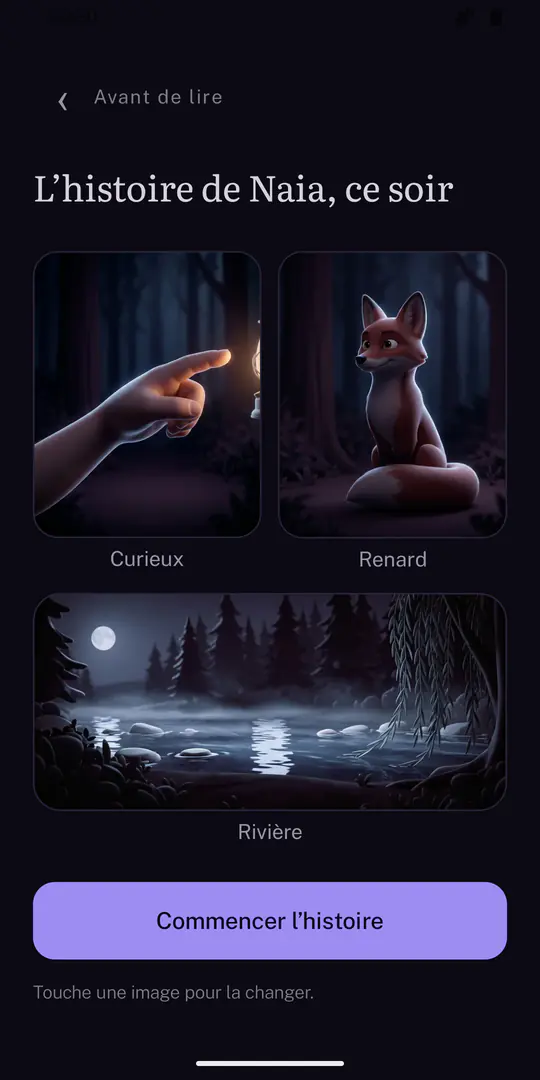
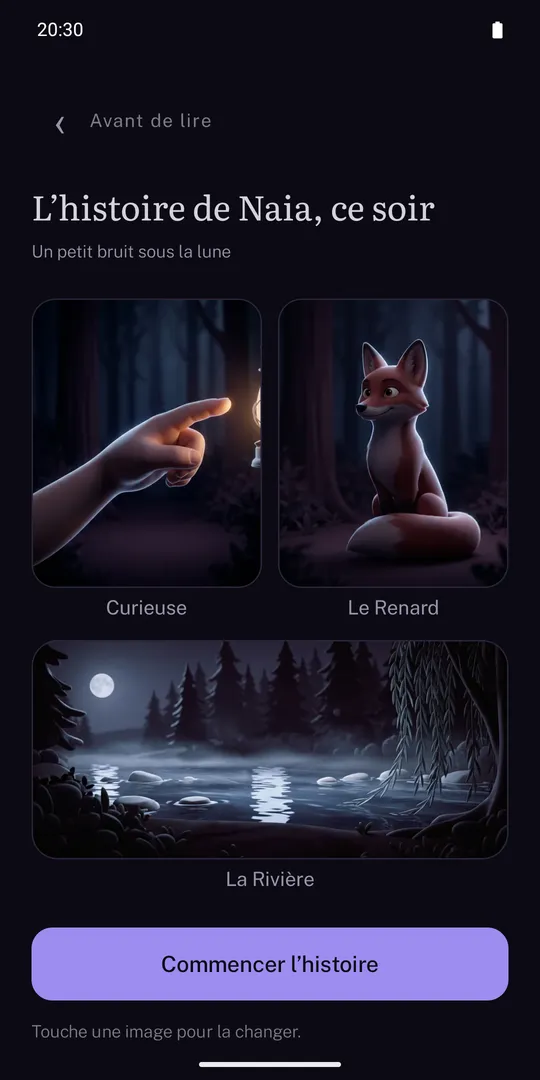
luciole : achats par Google Play, trois univers, lecture en rouleau, captures de la 0.14

diff --git a/luciole/index.html b/luciole/index.html
@@ -102,11 +102,11 @@
           </li>
           <li>
             <h3>Pensée pour le noir</h3>
-            <p>Écran sombre, texte crème, grande police réglable en un geste. Chaque page est un souffle : vous la lisez, vous tournez. Les indications qui vous sont destinées sont en italique et ne se lisent pas à voix haute.</p>
+            <p>Écran sombre, texte crème, grande police réglable en un geste. L’histoire se lit d’un seul défilement, sans page à tourner, et chaque question arrive dans une carte au moment de la poser. Les indications qui vous sont destinées sont en italique et ne se lisent pas à voix haute.</p>
           </li>
           <li>
-            <h3>« La nuit qui appelle »</h3>
-            <p>La forêt n’arrive pas à s’endormir : au fond, quelqu’un pleure. Un enfant qui n’a pas sommeil part l’aider. Pour les cinq à huit ans, environ dix minutes de lecture. D’autres histoires arriveront avec les mises à jour.</p>
+            <h3>Trois univers, neuf histoires</h3>
+            <p>La forêt, offerte, avec ses trois histoires ; les pirates et la neige, trois histoires chacun, à débloquer une fois pour toutes par Google Play. Pour les cinq à huit ans, de huit à dix minutes de lecture chacune.</p>
           </li>
         </ul>
       </div>
@@ -117,7 +117,7 @@
         <h2 id="steps-title">Comment ça marche</h2>
         <ol role="list">
           <li><p>Le prénom de votre enfant, puis trois images à choisir : comment il est ce soir, qui l’accompagne, où ça se passe.</p></li>
-          <li><p>Vous lisez à voix haute, une page par souffle. Un geste pour tourner.</p></li>
+          <li><p>Vous lisez à voix haute, d’un seul défilement, sans page à tourner.</p></li>
           <li><p>À chaque question, votre enfant décide. Vous touchez son choix, et vous continuez.</p></li>
         </ol>
       </div>
@@ -128,27 +128,27 @@
         <h2 id="shots-title">Captures d’écran</h2>
         <div class="app-shots__track" tabindex="0" role="region" aria-label="Captures d’écran, défilement horizontal">
           <figure>
-            <img src="assets/shots/01-accueil.webp" alt="L’accueil de Luciole : une luciole dans un bois la nuit, le nom, l’accroche « Ce soir, ton enfant décide comment l’histoire finit. » et le bouton « Lire une histoire à Naia »." width="540" height="1080" loading="lazy">
-            <figcaption>L’accueil : la lecture commence en un geste, le prénom est retenu.</figcaption>
+            <img src="assets/shots/01-choix.webp" alt="L’écran de choix : « Ce soir, pour Naia », les univers en médaillons, la forêt offerte et les pirates sous cadenas, puis trois histoires de la forêt avec leur vignette, les visages des compagnons et la durée." width="540" height="1080" loading="lazy">
+            <figcaption>L’ouverture : un univers à la fois, ses histoires en lignes. La forêt est offerte.</figcaption>
           </figure>
           <figure>
-            <img src="assets/shots/02-heros.webp" alt="« Comment est Naia, ce soir ? » et quatre images : une main qui tient une lanterne, un doigt qui montre, deux mains en coupe, un papillon posé sur une paume, sous-titrées Brave, Curieux, Malicieux, Doux." width="540" height="1080" loading="lazy">
+            <img src="assets/shots/02-heros.webp" alt="« Ce soir, dans l’histoire, Naia est… » et quatre images : une main qui tient une lanterne, un doigt qui montre, deux mains en coupe, un papillon posé sur une paume, sous-titrées Courageuse, Curieuse, Malicieuse, Tranquille." width="540" height="1080" loading="lazy">
             <figcaption>Le héros du soir, en images : toucher choisit.</figcaption>
           </figure>
           <figure>
-            <img src="assets/shots/03-compagnon.webp" alt="« Qui l’accompagne ? » et quatre animaux de nuit : un renard, un hibou, un blaireau, un hérisson." width="540" height="1080" loading="lazy">
-            <figcaption>Le compagnon, un des quatre animaux de la forêt.</figcaption>
+            <img src="assets/shots/03-compagnon.webp" alt="« Qui l’accompagne ? » et quatre animaux de nuit : le Renard, le Hibou, le Blaireau, le Hérisson." width="540" height="1080" loading="lazy">
+            <figcaption>Le compagnon, un des quatre animaux de l’histoire.</figcaption>
           </figure>
           <figure>
-            <img src="assets/shots/04-garde.webp" alt="« L’histoire de Naia, ce soir » : les trois choix en images, curieux, le renard, la rivière, et le bouton « Commencer l’histoire »." width="540" height="1080" loading="lazy">
+            <img src="assets/shots/04-garde.webp" alt="« L’histoire de Naia, ce soir » : les trois choix en images, Curieuse, le Renard, la Rivière, et le bouton « Commencer l’histoire »." width="540" height="1080" loading="lazy">
             <figcaption>Avant de lire, les trois choix d’un coup d’œil. Une image se touche pour la changer.</figcaption>
           </figure>
           <figure>
-            <img src="assets/shots/05-lecture.webp" alt="Une page de lecture : « voix douce, on commence » en italique, puis « Ce soir, Naia n’a pas sommeil. » en grande police crème sur fond sombre, et la luciole en bas à droite." width="540" height="1080" loading="lazy">
-            <figcaption>La lecture : un souffle par page, l’indication au parent en italique, la luciole marque la suite.</figcaption>
+            <img src="assets/shots/05-lecture.webp" alt="Le début de la lecture : la couverture atténuée en haut, le titre « Un petit bruit sous la lune », « voix douce, on commence » en italique, puis le texte en grande police crème sur fond sombre, avec une lettrine." width="540" height="1080" loading="lazy">
+            <figcaption>La lecture : toute l’histoire d’un seul défilement, l’indication au parent en italique.</figcaption>
           </figure>
           <figure>
-            <img src="assets/shots/06-question.webp" alt="Une question : « Naia, on file tout de suite, ou on prend la lanterne en passant ? » et deux options, « Tout de suite » et « Avec la lanterne »." width="540" height="1080" loading="lazy">
+            <img src="assets/shots/06-question.webp" alt="Une question dans une carte : « cherche son regard, laisse un silence », puis « Naia, on file tout de suite, ou on prend la lanterne en passant ? » et deux options, « Tout de suite » et « Avec la lanterne »." width="540" height="1080" loading="lazy">
             <figcaption>La question : l’enfant répond, le parent touche son choix.</figcaption>
           </figure>
         </div>
@@ -157,9 +157,9 @@
 
     <section class="app-privacy" aria-labelledby="privacy-title">
       <div class="app-container">
-        <h2 id="privacy-title">Rien ne sort du téléphone</h2>
+        <h2 id="privacy-title">Sans compte ni publicité</h2>
         <div class="app-privacy__box">
-          <p>Luciole ne collecte, ne transmet et ne partage aucune donnée. Pas de compte, pas de connexion, pas de publicité, pas d’abonnement. <strong>L’application ne déclare aucune permission Android, pas même l’accès à Internet</strong> : elle ne peut techniquement rien envoyer, et elle fonctionne en mode avion.</p>
+          <p>Luciole ne collecte, ne transmet et ne partage aucune donnée personnelle. Pas de compte, pas de connexion, pas de publicité, pas d’abonnement : les univers s’achètent une fois, par Google Play, et <strong>l’application fonctionne en mode avion</strong>.</p>
           <p>Sur le téléphone, elle garde le prénom de votre enfant et l’accord choisi, les choix faits avant chaque lecture, la taille de texte, et l’historique des histoires lues. Désinstaller l’application efface tout ça.</p>
           <p><a href="confidentialite/">Lire la politique de confidentialité</a></p>
         </div>
@@ -179,11 +179,11 @@
         </details>
         <details>
           <summary>Combien d’histoires ?</summary>
-          <p>Une, « La nuit qui appelle », en quarante-huit versions selon le héros, le compagnon et le décor choisis, avec trois fins. D’autres histoires arriveront avec les mises à jour de l’application ; rien ne se télécharge, tout est dans le téléphone.</p>
+          <p>Neuf, dans trois univers. La forêt est offerte : « Un petit bruit sous la lune », « Qui fait hic ? » et « Où est passé le doudou ? ». Les pirates et la neige se débloquent chacun par un achat unique, sans abonnement. Chaque histoire existe en quarante-huit versions selon le héros, le compagnon et le décor choisis, avec trois fins, en français ou en anglais. Rien ne se télécharge, tout est dans le téléphone.</p>
         </details>
         <details>
           <summary>Faut-il une connexion ?</summary>
-          <p>Non, jamais. L’application ne demande pas la permission d’accéder à Internet.</p>
+          <p>Pour lire, jamais : l’application fonctionne en mode avion. Seul l’achat d’un univers passe par Google Play, qui demande alors une connexion.</p>
         </details>
         <details>
           <summary>Peut-on reprendre une histoire interrompue ?</summary>

diff --git a/luciole/confidentialite/index.html b/luciole/confidentialite/index.html
@@ -5,7 +5,7 @@
   <meta name="viewport" content="width=device-width, initial-scale=1">
 
   <title>Luciole — Politique de confidentialité</title>
-  <meta name="description" content="Ce que l’application Luciole fait de vos données. Réponse courte : rien. Elle ne collecte rien, ne demande aucune permission et ne fait aucune requête réseau.">
+  <meta name="description" content="Ce que l’application Luciole fait de vos données : elle-même ne collecte rien ; les achats passent par Google Play, dont la bibliothèque envoie des informations techniques à Google.">
 
   <!-- URLs absolues : la seule entorse au tout-relatif (scrapers OG, hreflang). -->
   <link rel="canonical" href="https://michaelfery.github.io/luciole/confidentialite/">
@@ -14,7 +14,7 @@
   <meta property="og:type" content="website">
   <meta property="og:site_name" content="Michaël Fery">
   <meta property="og:title" content="Luciole — Politique de confidentialité">
-  <meta property="og:description" content="Ce que l’application Luciole fait de vos données. Réponse courte : rien. Elle ne collecte rien, ne demande aucune permission et ne fait aucune requête réseau.">
+  <meta property="og:description" content="Ce que l’application Luciole fait de vos données : elle-même ne collecte rien ; les achats passent par Google Play, dont la bibliothèque envoie des informations techniques à Google.">
   <meta property="og:url" content="https://michaelfery.github.io/luciole/confidentialite/">
   <meta property="og:image" content="https://michaelfery.github.io/luciole/assets/og.jpg">
   <meta property="og:image:width" content="1200">
@@ -22,7 +22,7 @@
   <meta property="og:locale" content="fr_FR">
   <meta name="twitter:card" content="summary_large_image">
   <meta name="twitter:title" content="Luciole — Politique de confidentialité">
-  <meta name="twitter:description" content="Ce que l’application Luciole fait de vos données. Réponse courte : rien. Elle ne collecte rien, ne demande aucune permission et ne fait aucune requête réseau.">
+  <meta name="twitter:description" content="Ce que l’application Luciole fait de vos données : elle-même ne collecte rien ; les achats passent par Google Play, dont la bibliothèque envoie des informations techniques à Google.">
   <meta name="twitter:image" content="https://michaelfery.github.io/luciole/assets/og.jpg">
 
   <link rel="icon" href="../assets/icon-32.png" sizes="32x32" type="image/png">
@@ -57,17 +57,17 @@
   <main id="main">
     <article class="app-prose app-container">
       <h1>Politique de confidentialité de Luciole</h1>
-      <p class="app-prose__date">Dernière mise à jour : 20 septembre 2026.</p>
+      <p class="app-prose__date">Dernière mise à jour : 3 octobre 2026.</p>
       <p>Luciole est une application Android d'histoires du soir, lues à voix haute par un parent à son enfant. Elle est éditée par son auteur, à titre personnel.</p>
       <h2>Ce que l'application collecte</h2>
-      <p>Rien. Luciole ne collecte, ne transmet et ne partage aucune donnée personnelle.</p>
-      <ul><li>L'application ne demande <strong>aucune permission</strong> Android, et ne déclare pas la permission d'accès à Internet. Elle ne peut techniquement rien envoyer.</li><li>Il n'y a <strong>pas de compte</strong>, pas d'inscription, pas de connexion.</li><li>Il n'y a <strong>aucun outil d'analyse d'audience</strong>, aucun rapport de plantage envoyé, aucune publicité, aucun SDK tiers.</li></ul>
+      <p>Luciole elle-même ne collecte, ne transmet et ne partage aucune donnée personnelle.</p>
+      <ul><li>Il n'y a <strong>pas de compte</strong>, pas d'inscription, pas de connexion, <strong>aucune publicité</strong>, aucun outil d'analyse d'audience, aucun rapport de plantage envoyé.</li><li>Les univers payants s'achètent par <strong>Google Play</strong>. Le paiement se fait chez Google : Luciole ne voit ni carte bancaire, ni nom, ni adresse. L'achat est traité selon la <a href="https://policies.google.com/privacy">politique de confidentialité de Google</a>.</li><li>Pour ces achats, Luciole intègre la <strong>bibliothèque de facturation de Google Play</strong>. Elle envoie à Google des informations techniques sur son propre fonctionnement (un appel au Play Store a-t-il réussi, la connexion a-t-elle échoué), qui servent à Google à améliorer la facturation. Elle apporte deux permissions Android : la facturation Google Play, et l'accès à Internet pour ces informations techniques. Le code de Luciole n'ouvre, lui, aucune connexion : une vérification à chaque construction de l'application l'impose.</li></ul>
       <h2>Ce que l'application garde sur le téléphone</h2>
       <p>Pour fonctionner, Luciole enregistre sur l'appareil, et seulement là :</p>
       <ul><li>le prénom de l'enfant et l'accord choisi (« elle » ou « il »), pour les placer dans l'histoire ;</li><li>les choix faits avant chaque lecture (héros, compagnon, décor) et la taille de texte préférée ;</li><li>l'historique des histoires lues, avec la fin obtenue, et la page où une lecture a été interrompue.</li></ul>
       <p>Ces informations ne quittent jamais le téléphone. Elles sont effacées avec l'application quand on la désinstalle, et le prénom se change à tout moment depuis l'accueil.</p>
       <h2>Enfants</h2>
-      <p>Luciole s'adresse aux parents, qui lisent, et aux enfants de cinq à huit ans, qui écoutent et choisissent. L'application ne collectant aucune donnée, elle ne collecte pas non plus de données d'enfants.</p>
+      <p>Luciole s'adresse aux parents, qui lisent, et aux enfants de cinq à huit ans, qui écoutent et choisissent. Luciole ne collecte aucune donnée d'enfant : le prénom, les choix et l'historique restent dans le téléphone.</p>
       <h2>Contact</h2>
       <p>Pour toute question sur cette politique, écrire à <a href="mailto:mferyapps@gmail.com">mferyapps@gmail.com</a>.</p>
       <h2>Modifications</h2>
